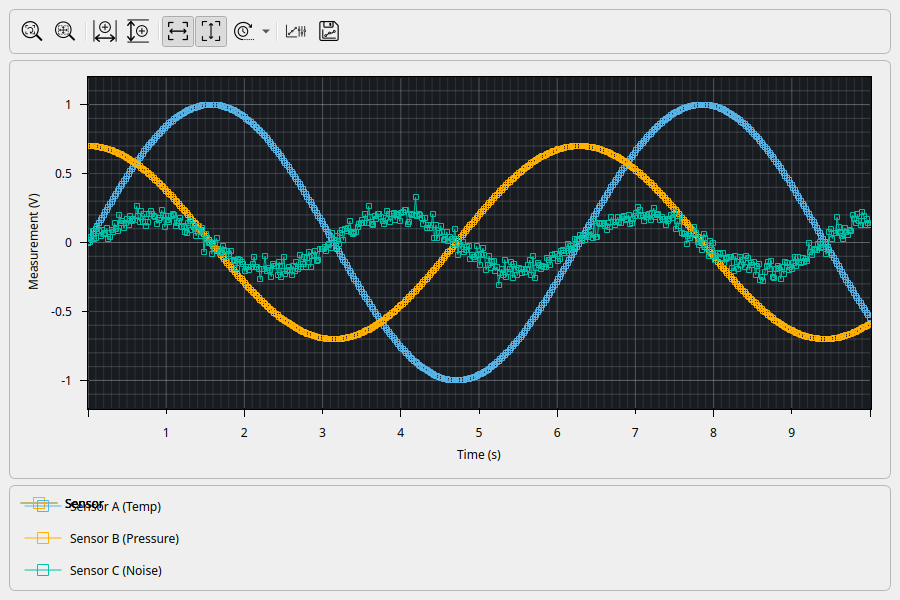
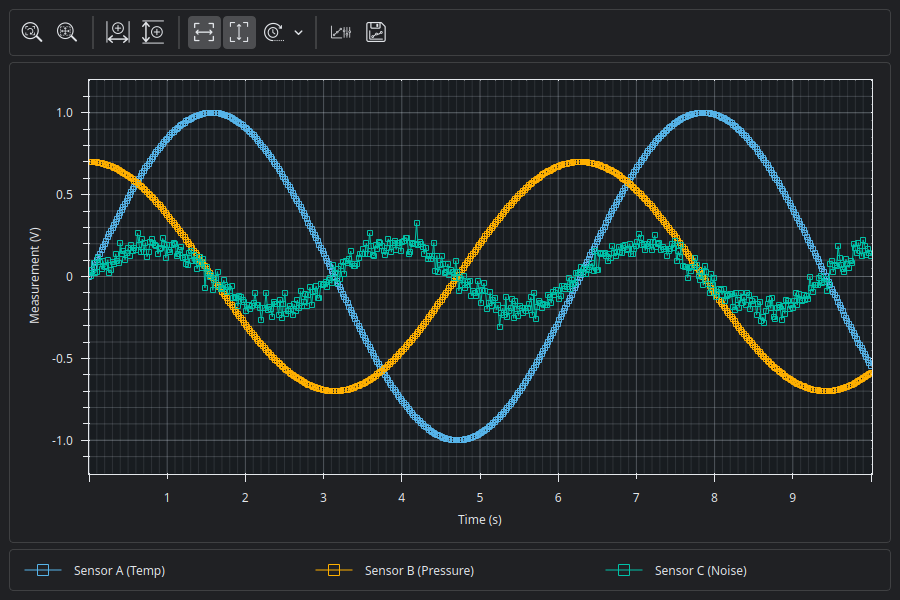
Update previews with qdarktheme, horizontal legend, and white background light theme

diff --git a/tests/generate_screenshots.py b/tests/generate_screenshots.py
@@ -1,12 +1,26 @@
+# /// script
+# dependencies = [
+#   "pyqtdarktheme",
+#   "numpy",
+#   "pyside6",
+#   "pyqtgraph",
+# ]
+# ///
+
 import sys
 import os
 import numpy as np
 from pathlib import Path
+import qdarktheme
 from PySide6.QtWidgets import QApplication, QMainWindow, QWidget, QVBoxLayout
+from PySide6.QtCore import Qt
 from pyqtlabgraph import PyQtLabGraphWidget
 
 def generate():
     app = QApplication(sys.argv)
+    
+    # Apply a real dark theme to the host application
+    app.setStyleSheet(qdarktheme.load_stylesheet("dark"))
     
     # Set up main window
     window = QMainWindow()
@@ -22,7 +36,7 @@ def generate():
     layout.addWidget(plot_container)
     layout.addWidget(legend_container)
     
-    # Initialize widget
+    # Initialize widget with horizontal legend
     plot = PyQtLabGraphWidget(
         plot_container=plot_container,
         toolbar_container=toolbar_container,
@@ -32,6 +46,7 @@ def generate():
         plot_style="dark",
         show_toolbar=True,
         show_legend=True,
+        legend_orientation=Qt.Orientation.Horizontal,
     )
     
     # Add mockup data curves
@@ -71,12 +86,14 @@ def generate():
         dialog_pixmap.save(str(docs_dir / "screenshot_customize_dialog.png"))
         dialog.close()
     
-    # 3. Light solarized theme screenshot
-    plot.set_theme("light-solarized")
-    plot.apply_plot_style("solarized")
+    # 3. Light theme (white background + light styles) screenshot
+    # Switch host application style sheet to light
+    app.setStyleSheet(qdarktheme.load_stylesheet("light"))
+    plot.set_theme("light")
+    plot.apply_plot_style("light")
     QApplication.processEvents()
     pixmap = window.grab()
-    pixmap.save(str(docs_dir / "screenshot_light_solarized.png"))
+    pixmap.save(str(docs_dir / "screenshot_light.png"))
     
     print(f"All screenshots generated and saved successfully under {docs_dir}/!")
 

diff --git a/README.md b/README.md
@@ -10,9 +10,9 @@ A powerful, interactive, and premium live plotting library for **PySide6/Qt6**, 
 
 ### Previews
 
-| Dark Theme (Default) | Light Solarized Theme |
+| Dark Theme (Default) | Light Theme |
 | :---: | :---: |
-| ![PyQtLabGraph Dark Theme](docs/screenshot_dark.png) | ![PyQtLabGraph Light Solarized Theme](docs/screenshot_light_solarized.png) |
+| ![PyQtLabGraph Dark Theme](docs/screenshot_dark.png) | ![PyQtLabGraph Light Theme](docs/screenshot_light.png) |
 
 | Modeless Customize Dialog |
 | :---: |
